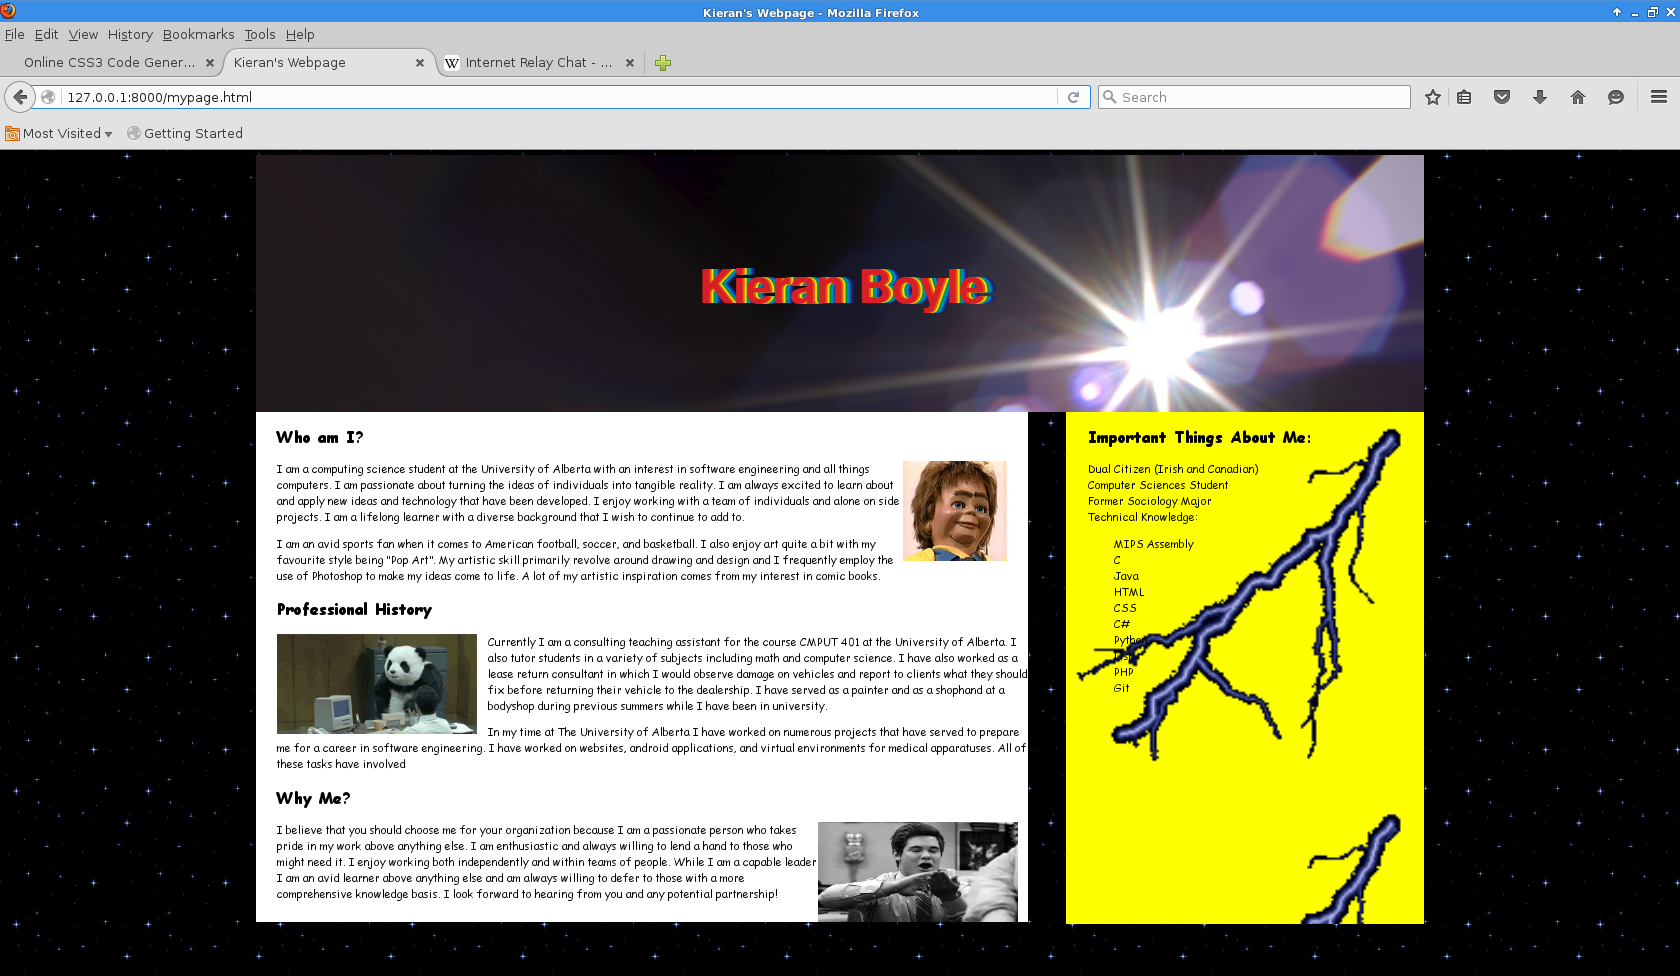
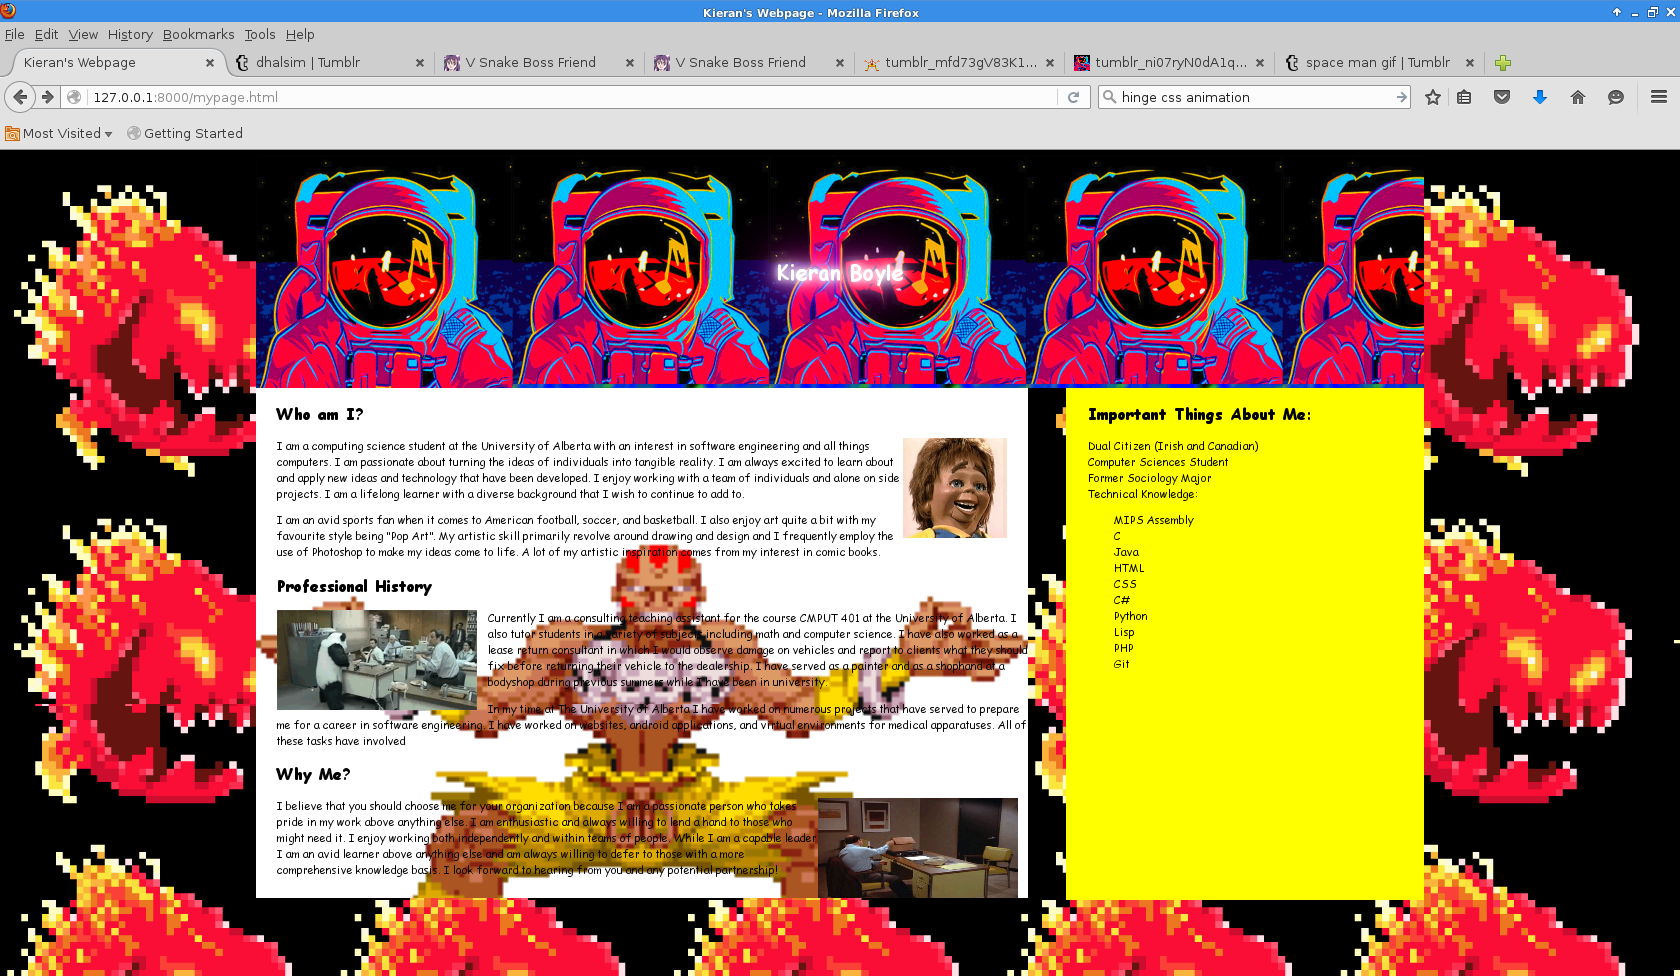
added license info and added to the bad, changed images

diff --git a/bad.css b/bad.css
@@ -1,6 +1,8 @@
+
+
 body {
     background-color: black;
-    background-image: url("https://s-media-cache-ak0.pinimg.com/originals/e7/67/32/e76732de2cbe64c7c103e97e6d08f6cb.gif");
+    background-image: url("https://media.giphy.com/media/uj9z0rzjZ8gCs/giphy.gif");
 }
 
 p{
@@ -10,8 +12,8 @@ p{
 
 
 #topheader{
-    background-image: url("lenseFlare.png");
-    background-size: 100%;
+    background-image: url("https://45.media.tumblr.com/b0b6265753ae72858fbdc3c112eda793/tumblr_ni07ryN0dA1qdd6qyo1_400.gif");
+
     color:white;
     text-align:center;
     padding:120px;
@@ -22,8 +24,18 @@ p{
 }
 
 
+
+@keyframes hinge {
+  0% { transform: rotate(0); transform-origin: top right; animation-timing-function: ease-in-out; }  
+  20%, 60% { transform: rotate(-80deg); transform-origin: top right; animation-timing-function: ease-in-out; }  
+  40% { transform: rotate(-60deg); transform-origin: top right; animation-timing-function: ease-in-out; } 
+  80% { transform: rotate(-60deg) translateY(0); opacity: 1; transform-origin: top right animation-timing-function: ease-in-out; } 
+  100% { transform: translateY(700px); opacity: 0; }
+}
+
 #sidebar {
- 
+  animation-duration: 5s;
+  animation-name: hinge;
 	background-color: yellow;
   background-image: url("lightning.gif");
   background-size: 100%;
@@ -58,7 +70,7 @@ p{
 
 #whyImage{
   float:right;
-  background-image: url("http://25.media.tumblr.com/tumblr_m94hpzQfSK1rof6ulo1_500.gif");
+  background-image: url("http://p.fod4.com/upload/aff3567c9abaad4b798a350dc1e1b1a3/mnI3slnCSGWrtzV0Yc2h_George%20Drumming.gif");
   width:300px; /*width of your image*/
   height:150px;
   margin-right: 1em;
@@ -66,33 +78,40 @@ p{
 }
 
 #mainContent{
+
 	float: left;
 	width: 45%;
 	height: 100%;
 	margin-left: 15%;
   font-family: "Comic Sans MS", "Comic Sans", cursive;
+  background-image: url("https://45.media.tumblr.com/274b5acb1904b4680eeb5e06ff8a3539/tumblr_mfd73gV83K1rmu6i5o1_400.gif");
+  background-size: 100%;
   background-color: white;
   padding-left: 2em;
 }
 
 
 .rainbow {
-  -webkit-box-sizing: content-box;
-  -moz-box-sizing: content-box;
-  box-sizing: content-box;
-  cursor: pointer;
+  display: inline-block;
+  -webkit-box-sizing: border-box;
+  -moz-box-sizing: border-box;
+  box-sizing: border-box;
+  padding: 10px;
   border: none;
-  font: normal normal bold 70px/normal "Bad Script", Helvetica, sans-serif;
-  color: rgba(0, 0, 0, 0);
+  font: normal 48px/normal class="string">"Warnes", Helvetica, sans-serif;
+  color: rgba(255,255,255,1);
+  text-decoration: normal;
   text-align: center;
   -o-text-overflow: clip;
   text-overflow: clip;
-  text-shadow: 3px 0 0 rgb(217,31,38) , 6px 0 0 rgb(226,91,14) , 9px 0 0 rgb(245,221,8) , 12px 0 0 rgb(5,148,68) , 15px 0 0 rgb(2,135,206) , 18px 0 0 rgb(4,77,145) , 21px 0 0 rgb(42,21,113) ;
-  -webkit-transition: all 600ms cubic-bezier(0.68, -0.55, 0.265, 1.55);
-  -moz-transition: all 600ms cubic-bezier(0.68, -0.55, 0.265, 1.55);
-  -o-transition: all 600ms cubic-bezier(0.68, -0.55, 0.265, 1.55);
-  transition: all 600ms cubic-bezier(0.68, -0.55, 0.265, 1.55);
+  white-space: pre;
+  text-shadow: 0 0 10px rgba(255,255,255,1) , 0 0 20px rgba(255,255,255,1) , 0 0 30px rgba(255,255,255,1) , 0 0 40px #ff00de , 0 0 70px #ff00de , 0 0 80px #ff00de , 0 0 100px #ff00de ;
+  -webkit-transition: all 200ms cubic-bezier(0.42, 0, 0.58, 1);
+  -moz-transition: all 200ms cubic-bezier(0.42, 0, 0.58, 1);
+  -o-transition: all 200ms cubic-bezier(0.42, 0, 0.58, 1);
+  transition: all 200ms cubic-bezier(0.42, 0, 0.58, 1);
 }
+
 
 
 

diff --git a/good.css b/good.css
@@ -63,19 +63,19 @@ p {
 #sidebarHeader{
   text-align: left;
 
-    -webkit-box-sizing: content-box;
+  -webkit-box-sizing: content-box;
   -moz-box-sizing: content-box;
   box-sizing: content-box;
   margin: 0 auto;
   border: none;
   font: normal 180%/normal "Anton", Helvetica, sans-serif;
-  color: #7a8ea3;
+  color: #ffffff;
   text-align: center;
   text-transform: uppercase;
   -o-text-overflow: clip;
   text-overflow: clip;
   letter-spacing: 10px;
-  text-shadow: 4px 4px 0 rgb(238,238,238) , 6px 6px 0 rgb(112,112,112) ;
+  text-shadow: 4px 4px 0 #000000 , 6px 6px 0 rgb(112,112,112) ;
 
 
 }
@@ -154,13 +154,15 @@ ul li {
   margin: 0 auto;
   border: none;
   font: normal 82px/normal "Anton", Helvetica, sans-serif;
-  color: #7a8ea3;
+  color: #ffffff;
   text-align: center;
   text-transform: uppercase;
   -o-text-overflow: clip;
   text-overflow: clip;
   letter-spacing: 10px;
-  text-shadow: 4px 4px 0 rgb(238,238,238) , 6px 6px 0 rgb(112,112,112) ;
+  text-shadow: 4px 4px 0 #000000 , 6px 6px 0 rgb(112,112,112) ;
 
 
 }
+
+

diff --git a/mypage.html b/mypage.html
@@ -5,7 +5,7 @@
     <title>Kieran's Webpage</title>
     <!--<link rel="stylesheet" href="bad.css" type="text/css" 
 http://enjoycss.com/code/#-->
-    <link rel="stylesheet" href="good.css" type="text/css"/>
+    <link rel="stylesheet" href="bad.css" type="text/css"/>
   
     
 </head>
@@ -68,7 +68,6 @@ http://enjoycss.com/code/#-->
 			</div>
 		</p>
 	</div>
-
 
 
 </body>

diff --git a/README.md b/README.md
@@ -15,17 +15,70 @@ git clone https://github.com/abramhindle/CMPUT404-assignment-css-hell.git
 License/Copyright
 =================
 
-Textual content is copyright Abram Hindle (C) 2013 under the CC-BY-SA
+Textual content is copyright Abram Hindle, Kieran Boyle (C) 2016 under the CC-BY-SA
 4.0 unported license. Attribution should be a hyperlink to the
-repository and (C) 2013 Abram Hindle visibile in the text.
+repository and (C) 2013 Abram Hindle, Kieran Boyle visibile in the text.
 
-Code is licensed under the Apache 2.0 license.
+My Code is licensed under the Apache 2.0 license.
+
 
 Gutenberg Changes
 =================
 
 I removed everything within the <style></style> tags and sadded in a link to my stylesheets. For my edits to the cssI underlined the photo captions, outlined the photos in blue, changed the background colour to a more pleasing colour, centered the body,changed the color of the author's note section so you can't see it, I changed all the fonts to a cursive format. I tried to make the document look more "old timey" 
 
-Other than hese adjustments I did not really touch the HTML for the Guttenburg files in order to preserve the format.
+Other than these adjustments I did not really touch the HTML for the Guttenburg files in order to preserve the format.
 
+Image/Gif Resources Used
+========================
+
+https://45.media.tumblr.com/19a957b07e4a64afd3f5a2e03b6f2a30/tumblr_n0t5mpyMHj1smgwqeo1_400.gif
+
+Author:Everything Is Terrible!
+
+
+http://thegloballibrarian.tumblr.com/post/41412949115/happy-friday-everyone-heres-a-little-fun-math
+
+Author:Heidi Elaine Dowding
+
+https://media.giphy.com/media/uj9z0rzjZ8gCs/giphy.gif
+
+Author: Mike Gambino
+
+https://45.media.tumblr.com/b0b6265753ae72858fbdc3c112eda793/tumblr_ni07ryN0dA1qdd6qyo1_400.gif
+
+Author:Luke Porrier
+
+http://p.fod4.com/upload/aff3567c9abaad4b798a350dc1e1b1a3/mnI3slnCSGWrtzV0Yc2h_George%20Drumming.gif
+
+Author: buthereisthething
+
+https://45.media.tumblr.com/274b5acb1904b4680eeb5e06ff8a3539/tumblr_mfd73gV83K1rmu6i5o1_400.gif
+
+Author: Josh He/him
+
+https://www.registrar.ualberta.ca/calendar/images/images-2015-2016/2015-2016-calendar-header-middle.png
+
+Author: University of Alberta
+
+
+https://image.freepik.com/free-icon/shake-hands_318-23469.jpg
+
+Author:freepick
+
+
+CSS Stylings and Code Used
+==========================
+
+http://enjoycss.com/code/# (neon and retro themes)
+
+Author:XB Software
+
+http://codepen.io/dimsemenov/pen/tIuLh
+
+Author: Dmitry Semenov
+
+http://www.w3schools.com/colors/colors_picker.asp
+
+Autor: w3schools
 
